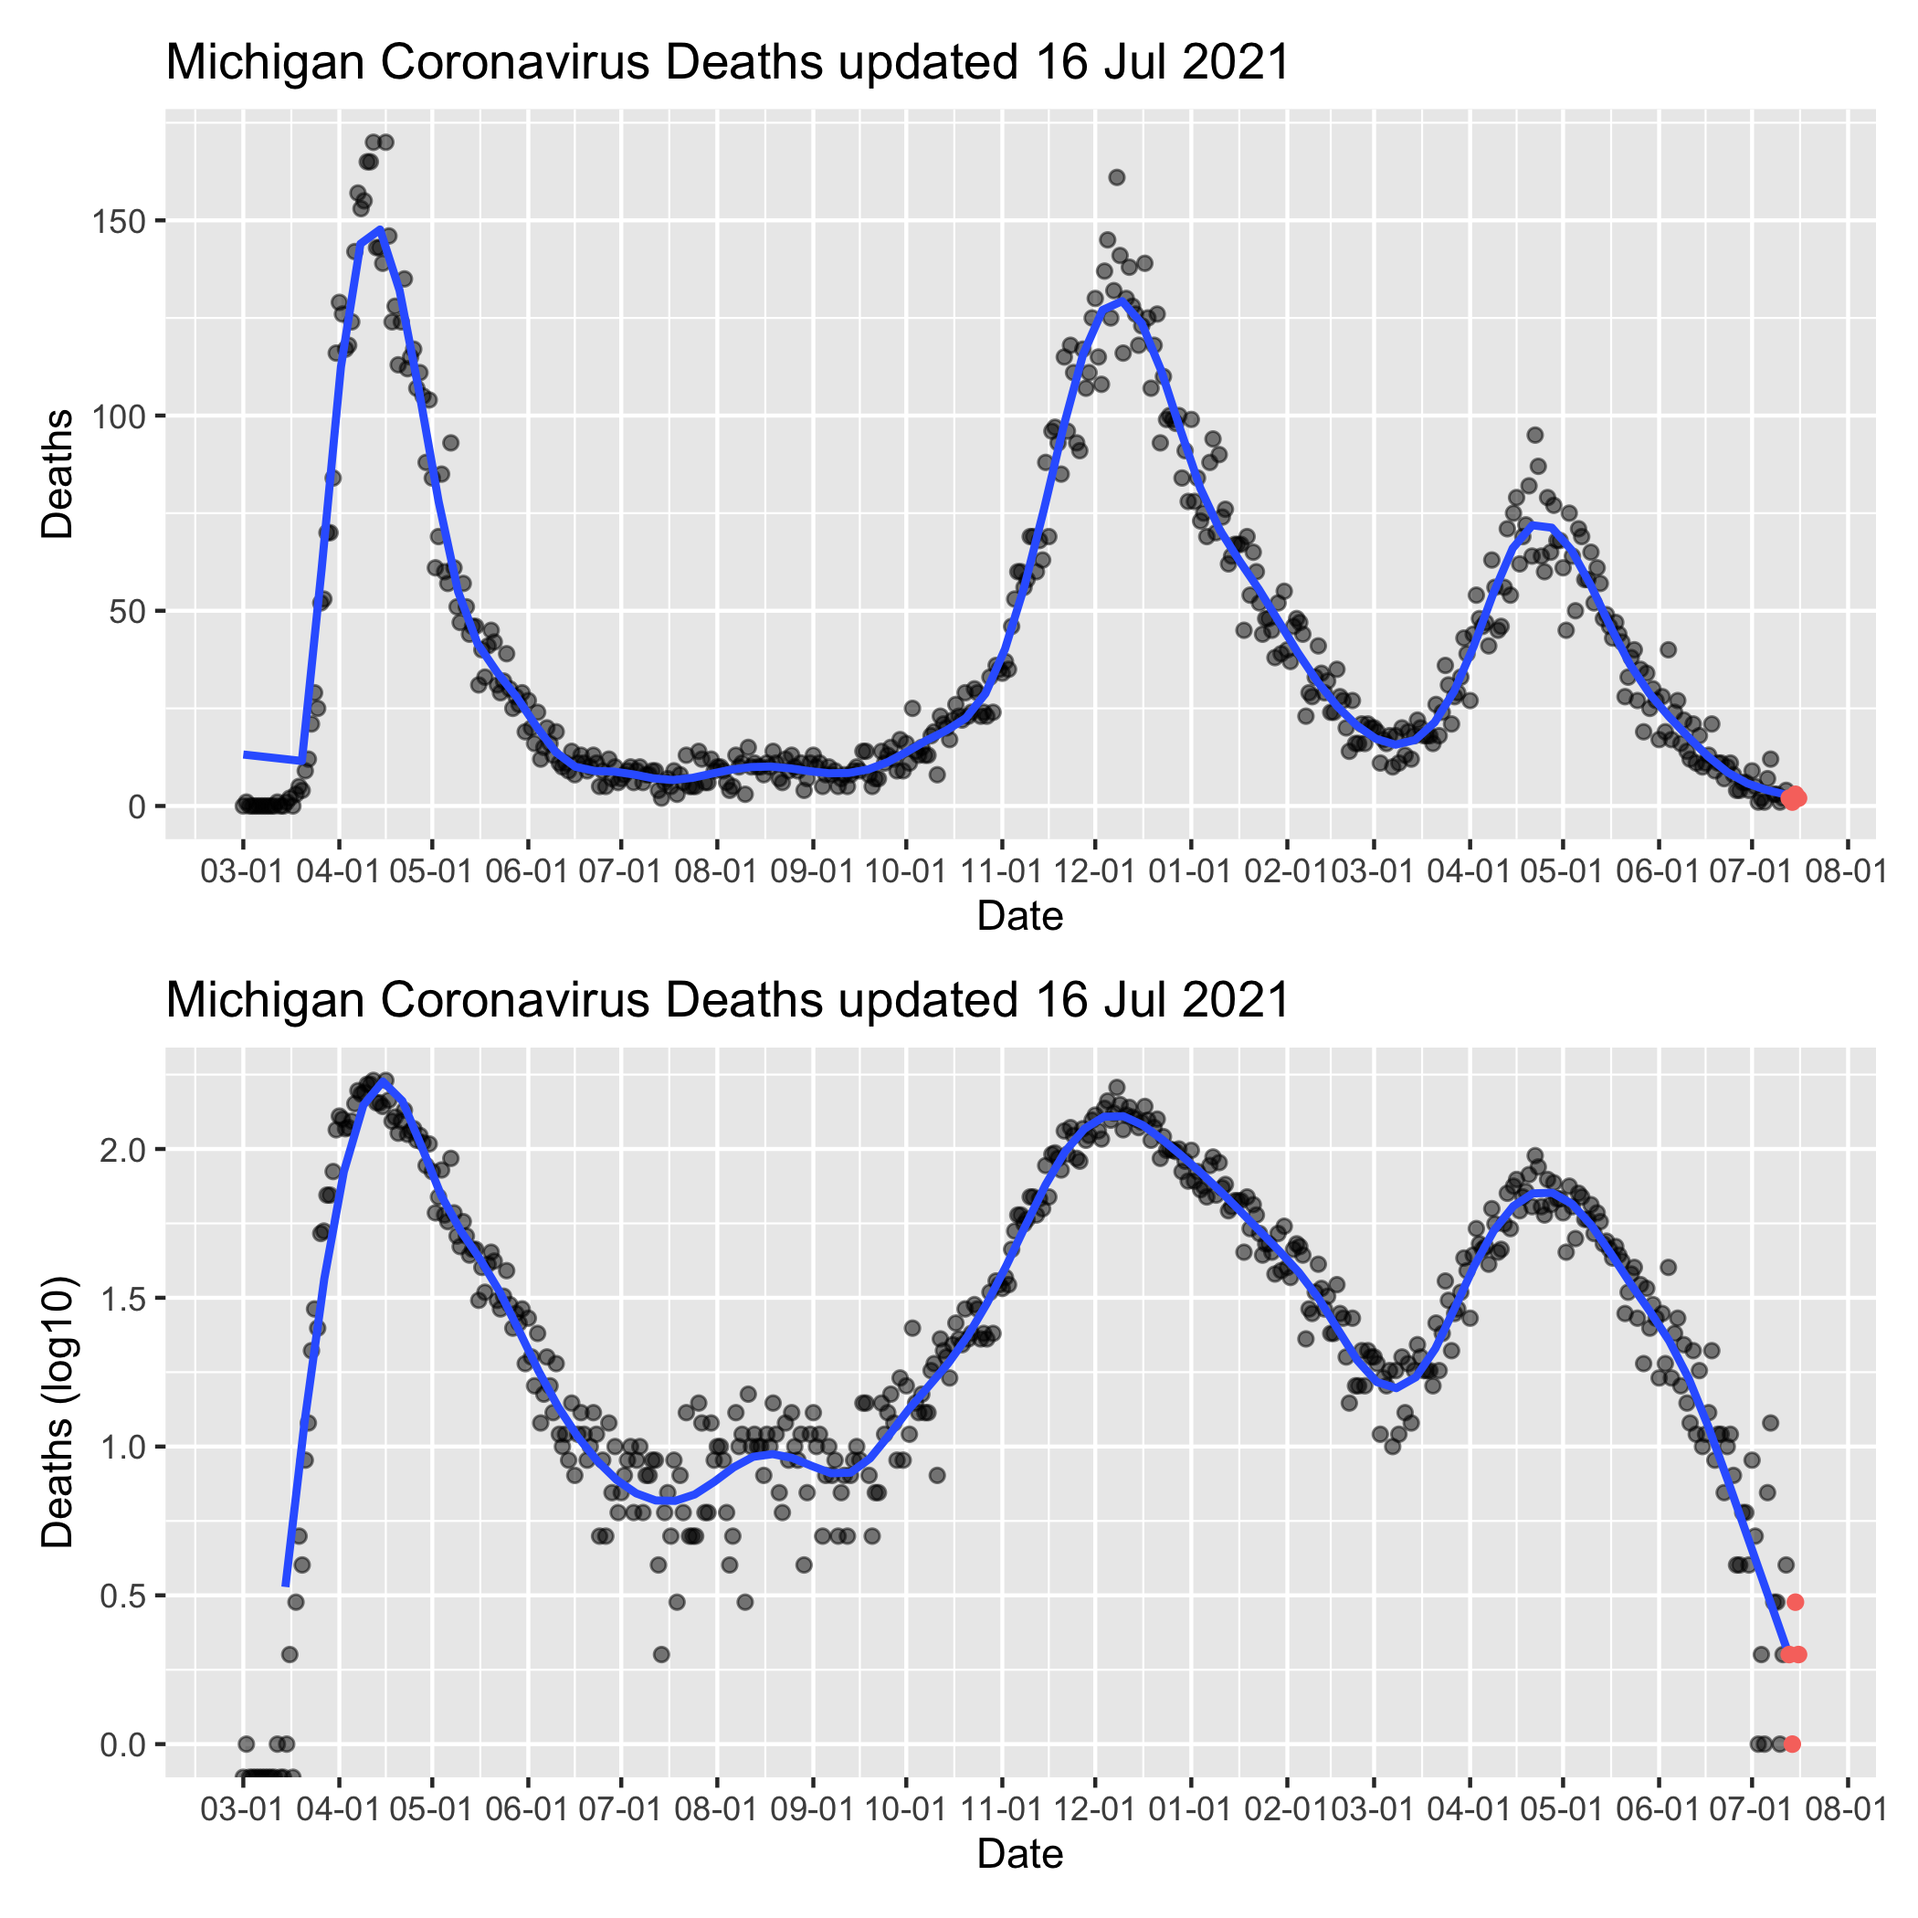
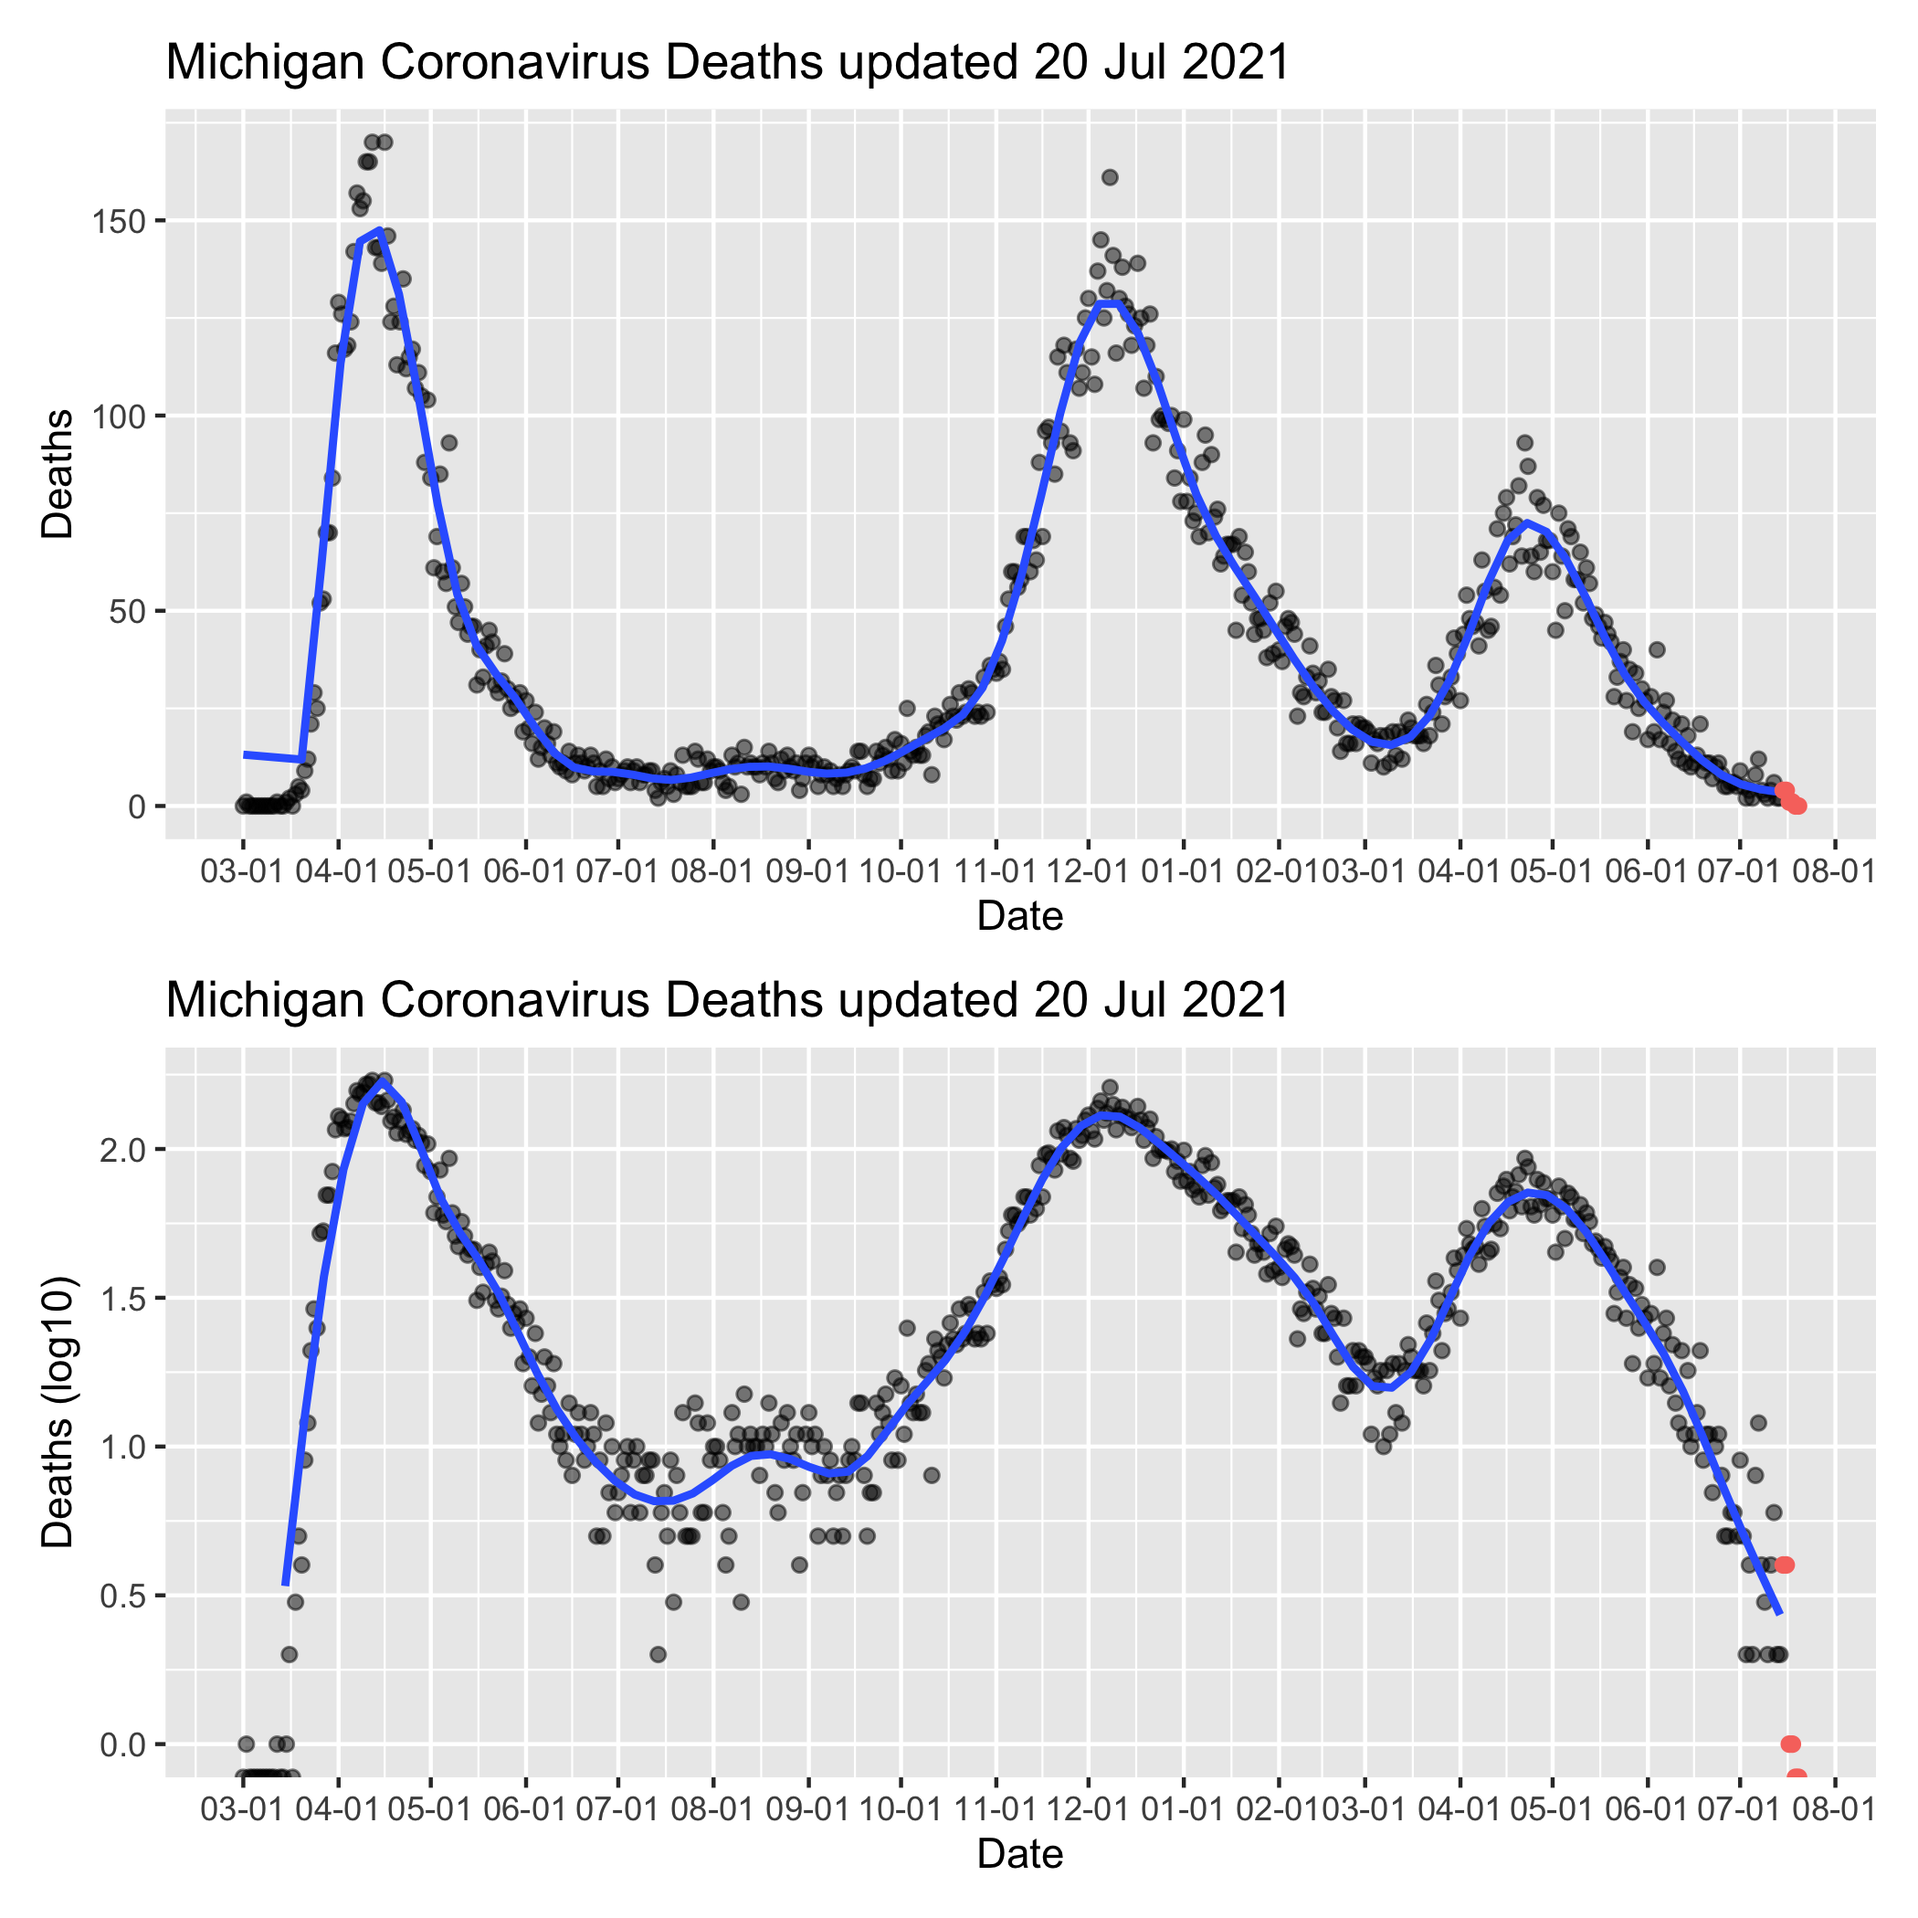
Jul-21 2021 01:08 update

diff --git a/MiCorona.md b/MiCorona.md
@@ -1,7 +1,7 @@
 Michigan COVID Data
 ================
 Adam D. DenHaan
-Jul 19, 2021
+Jul 21, 2021
 
 Get link for data:
 
@@ -48,11 +48,11 @@ mi_data.head()
     ## 4  Alcona 2020-03-05   Confirmed    0.0     0.0               0.0   
     ## 
     ##    Deaths.Cumulative                       Updated  
-    ## 0                0.0 2021-07-16 13:08:04.010200064  
-    ## 1                0.0 2021-07-16 13:08:04.010200064  
-    ## 2                0.0 2021-07-16 13:08:04.010200064  
-    ## 3                0.0 2021-07-16 13:08:04.010200064  
-    ## 4                0.0 2021-07-16 13:08:04.010200064
+    ## 0                0.0 2021-07-20 13:48:58.417499904  
+    ## 1                0.0 2021-07-20 13:48:58.417499904  
+    ## 2                0.0 2021-07-20 13:48:58.417499904  
+    ## 3                0.0 2021-07-20 13:48:58.417499904  
+    ## 4                0.0 2021-07-20 13:48:58.417499904
 
 ``` python
 max_date = max(mi_data["Updated"])
@@ -135,7 +135,7 @@ viz_function(mi_cases_by_day_exclusive, mi_cases_by_day_last4, Date, Deaths, ver
 
 ![](MiCorona_files/figure-gfm/viz2-1.png)<!-- -->
 
-Note that the last 4 days of data have been colored red on the graph, as
+Note that the last 6 days of data have been colored red on the graph, as
 they frequently change as more information becomes available. Vertical
 orange line at 4 weeks in the past (as hospitalizations and deaths
 usually follow cases by three weeks, and the deaths graph regression
